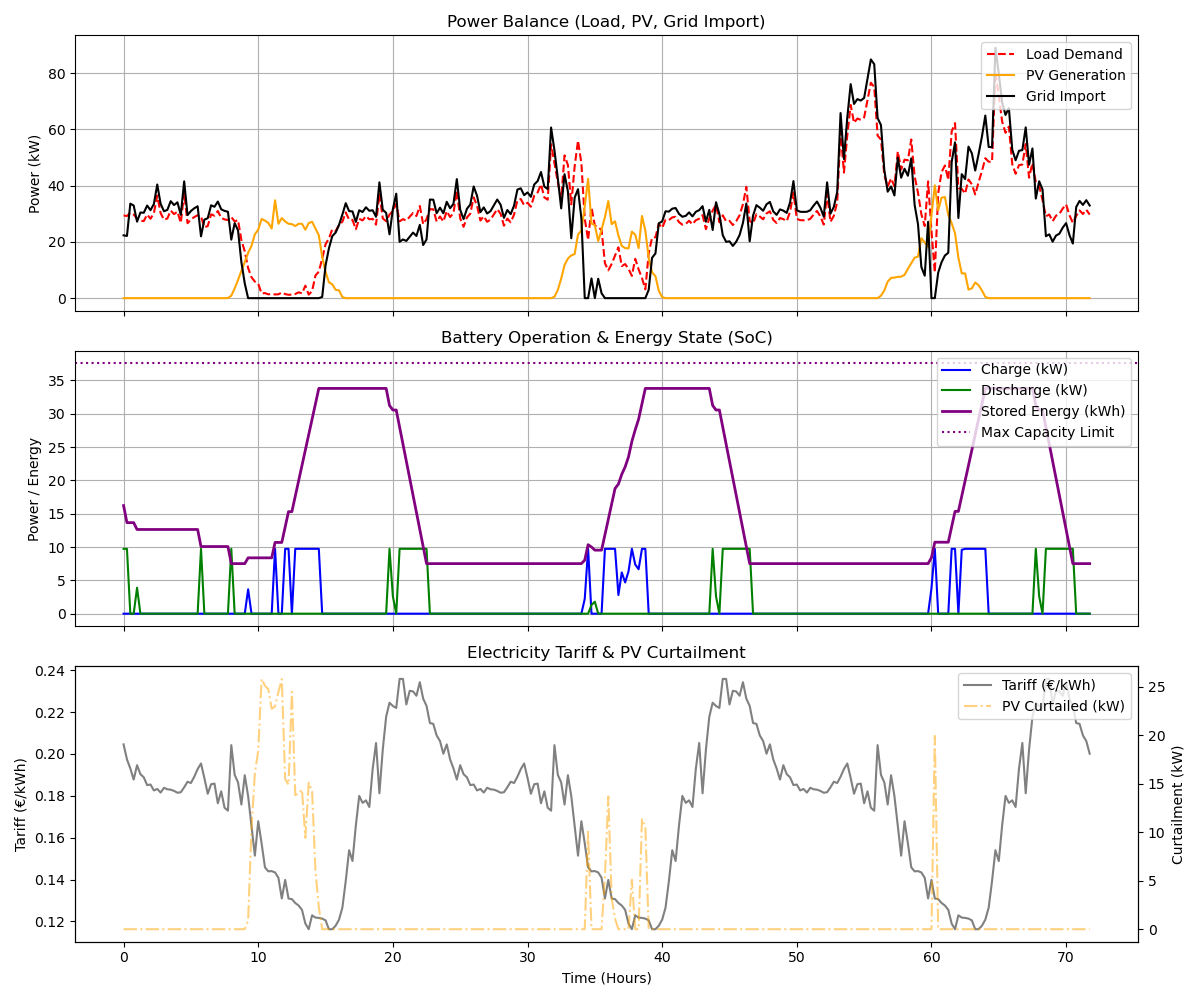
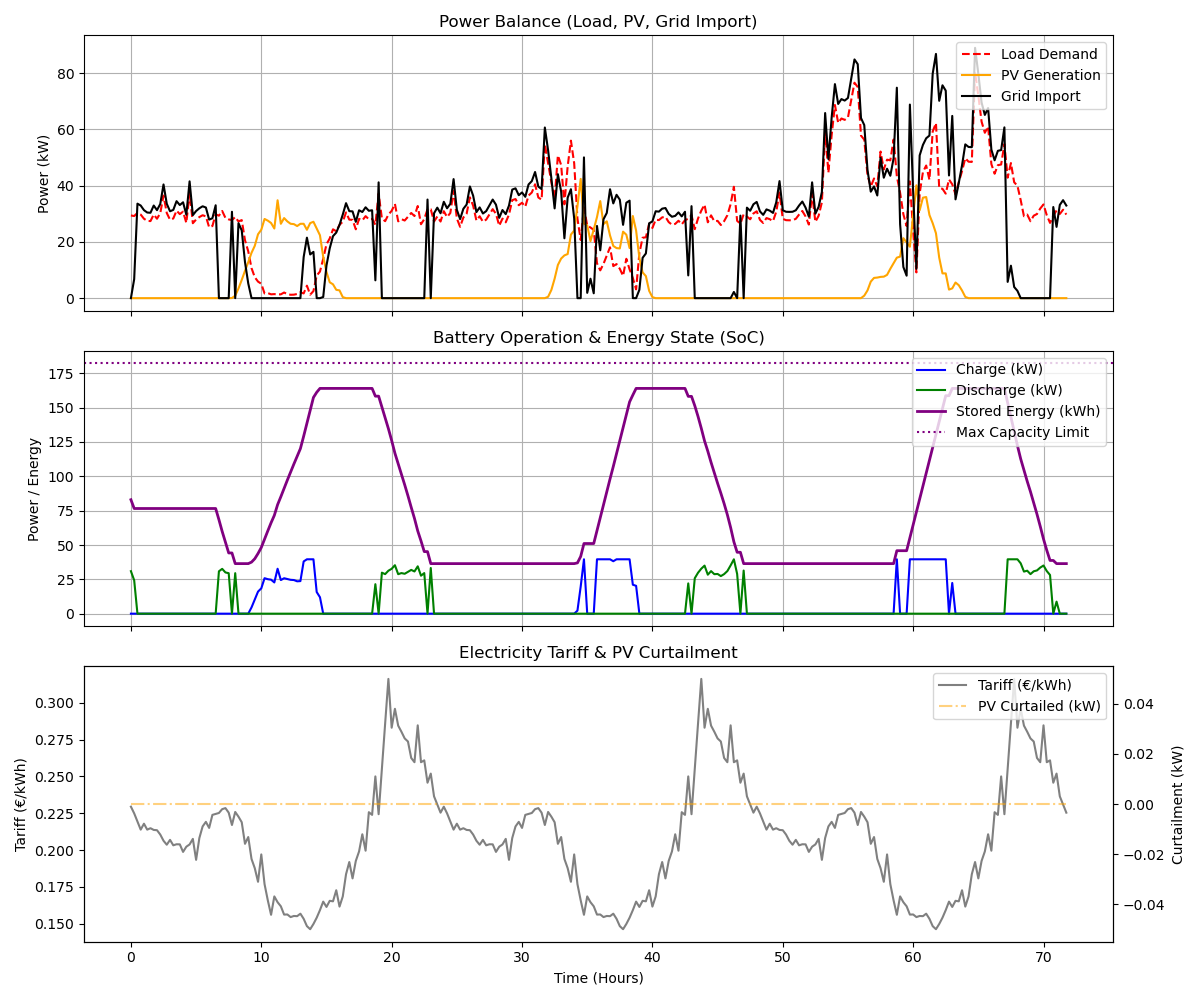
New worlkflow more efficient

diff --git a/BMS_brain/src/web_ui/index.html b/BMS_brain/src/web_ui/index.html
@@ -33,13 +33,6 @@
                 <p>The sequential flow of data from raw inputs to sizing optimization</p>
             </div>
             <div class="pipeline-steps">
-                <div class="step-node" id="node-ghi_getter">
-                    <div class="node-icon">☀️</div>
-                    <div class="node-label">GHI Getter</div>
-                    <div class="node-sub">Weather Data Fetch</div>
-                </div>
-                <div class="flow-line" id="line-ghi-cleaner"></div>
-                
                 <div class="step-node" id="node-pv_cleaner">
                     <div class="node-icon">🧹</div>
                     <div class="node-label">PV Cleaner</div>
@@ -52,14 +45,7 @@
                     <div class="node-label">Consumption Cleaner</div>
                     <div class="node-sub">Clean Load Profile</div>
                 </div>
-                <div class="flow-line" id="line-con-curtail"></div>
-                
-                <div class="step-node" id="node-curtailment">
-                    <div class="node-icon">✂️</div>
-                    <div class="node-label">Curtailment</div>
-                    <div class="node-sub">Solar PV Imputation</div>
-                </div>
-                <div class="flow-line" id="line-curtail-opt"></div>
+                <div class="flow-line" id="line-con-opt"></div>
                 
                 <div class="step-node" id="node-battery_optimizer">
                     <div class="node-icon">🔋</div>
@@ -82,33 +68,10 @@
             <section id="tab-individual" class="tab-panel active">
                 <div class="modules-grid">
                     
-                    <!-- CARD 1: GHI GETTER -->
-                    <div class="module-card" id="card-ghi_getter">
-                        <div class="card-header">
-                            <span class="card-num">01</span>
-                            <h3>GHI Getter</h3>
-                            <span class="status-badge idle">Idle</span>
-                        </div>
-                        <p class="card-desc">Downloads 2023 Global Horizontal Irradiance (GHI) weather data from the Open-Meteo Historical Archive API for the Orly airport location.</p>
-                        <div class="card-actions">
-                            <button class="btn-primary" onclick="runScript('ghi_getter')">Run GHI Getter</button>
-                        </div>
-                        <div class="progress-bar-container">
-                            <div class="progress-bar"></div>
-                        </div>
-                        <div class="console-log-header" onclick="toggleConsole('ghi_getter')">
-                            <span>Console Log Output</span>
-                            <span class="arrow">▼</span>
-                        </div>
-                        <div class="console-log" id="log-ghi_getter">
-                            <pre>Terminal output will appear here...</pre>
-                        </div>
-                    </div>
-
-                    <!-- CARD 2: PV CLEANER -->
+                    <!-- CARD 1: PV CLEANER -->
                     <div class="module-card" id="card-pv_cleaner">
                         <div class="card-header">
-                            <span class="card-num">02</span>
+                            <span class="card-num">01</span>
                             <h3>PV Cleaner</h3>
                             <span class="status-badge idle">Idle</span>
                         </div>
@@ -131,10 +94,10 @@
                         </div>
                     </div>
 
-                    <!-- CARD 3: CONSUMPTION CLEANER -->
+                    <!-- CARD 2: CONSUMPTION CLEANER -->
                     <div class="module-card" id="card-con_cleaner">
                         <div class="card-header">
-                            <span class="card-num">03</span>
+                            <span class="card-num">02</span>
                             <h3>Consumption Cleaner</h3>
                             <span class="status-badge idle">Idle</span>
                         </div>
@@ -157,36 +120,10 @@
                         </div>
                     </div>
 
-                    <!-- CARD 4: CURTAILMENT -->
-                    <div class="module-card" id="card-curtailment">
-                        <div class="card-header">
-                            <span class="card-num">04</span>
-                            <h3>Curtailment Analysis</h3>
-                            <span class="status-badge idle">Idle</span>
-                        </div>
-                        <p class="card-desc">Analyzes PV curtailment schedules, models historical curtailment periods, and creates train-test splits for validation models.</p>
-                        <div class="card-actions">
-                            <button class="btn-primary" onclick="runScript('curtailment')">Run Curtailment</button>
-                        </div>
-                        <div class="progress-bar-container">
-                            <div class="progress-bar"></div>
-                        </div>
-                        <div class="console-log-header" onclick="toggleConsole('curtailment')">
-                            <span>Console Log Output</span>
-                            <span class="arrow">▼</span>
-                        </div>
-                        <div class="console-log" id="log-curtailment">
-                            <pre>Terminal output will appear here...</pre>
-                        </div>
-                        <div class="visualization-area" id="viz-curtailment">
-                            <div class="viz-placeholder">Plot visualization will appear here upon successful run</div>
-                        </div>
-                    </div>
-
-                    <!-- CARD 5: BATTERY OPTIMIZER -->
+                    <!-- CARD 3: BATTERY OPTIMIZER -->
                     <div class="module-card" id="card-battery_optimizer">
                         <div class="card-header">
-                            <span class="card-num">05</span>
+                            <span class="card-num">03</span>
                             <h3>Battery Optimizer</h3>
                             <span class="status-badge idle">Idle</span>
                         </div>
@@ -271,7 +208,6 @@
                         <div class="gallery-tabs">
                             <button class="gallery-tab active" onclick="switchGallery('pv')">PV Clean</button>
                             <button class="gallery-tab" onclick="switchGallery('con')">Consumption Clean</button>
-                            <button class="gallery-tab" onclick="switchGallery('curtail')">Curtailment Analysis</button>
                             <button class="gallery-tab" onclick="switchGallery('battery')">Sizing Solution</button>
                         </div>
                         <div class="gallery-content">
@@ -281,10 +217,6 @@
                             </div>
                             <div class="gallery-img-container hidden" id="gallery-con">
                                 <img src="" alt="Consumption Cleaner Plot" class="gallery-img" onerror="imgError(this)">
-                                <div class="img-placeholder">Plot not generated yet. Run the pipeline to build this chart.</div>
-                            </div>
-                            <div class="gallery-img-container hidden" id="gallery-curtail">
-                                <img src="" alt="Curtailment Plot" class="gallery-img" onerror="imgError(this)">
                                 <div class="img-placeholder">Plot not generated yet. Run the pipeline to build this chart.</div>
                             </div>
                             <div class="gallery-img-container hidden" id="gallery-battery">

diff --git a/BMS_brain/src/web_ui/index.js b/BMS_brain/src/web_ui/index.js
@@ -83,7 +83,7 @@ async function updateSystemStatus() {
 
 // Update DOM cards based on script states
 function updateCards(state) {
-    const scripts = ["ghi_getter", "pv_cleaner", "con_cleaner", "curtailment", "battery_optimizer"];
+    const scripts = ["pv_cleaner", "con_cleaner", "battery_optimizer"];
     
     scripts.forEach(key => {
         const card = document.getElementById(`card-${key}`);
@@ -140,7 +140,7 @@ function updateCards(state) {
         startLogPolling("pipeline");
         
         // Calculate progress percentage based on current step
-        const stepsOrder = ["ghi_getter", "pv_cleaner", "con_cleaner", "curtailment", "battery_optimizer"];
+        const stepsOrder = ["pv_cleaner", "con_cleaner", "battery_optimizer"];
         const stepIdx = stepsOrder.indexOf(pState.current_step);
         const percent = stepIdx !== -1 ? Math.round((stepIdx / stepsOrder.length) * 100) : 10;
         pFill.style.width = `${percent}%`;
@@ -169,7 +169,7 @@ function updateCards(state) {
 
 // Update the glowing Pipeline Nodes at the top
 function updatePipelineNodes(state) {
-    const nodes = ["ghi_getter", "pv_cleaner", "con_cleaner", "curtailment", "battery_optimizer"];
+    const nodes = ["pv_cleaner", "con_cleaner", "battery_optimizer"];
     
     // Check if pipeline is running
     const pipelineRunning = state["pipeline"].status === "running";
@@ -185,7 +185,7 @@ function updatePipelineNodes(state) {
             if (pipelineCurrentStep === key) {
                 node.classList.add("active");
             } else {
-                const stepsOrder = ["ghi_getter", "pv_cleaner", "con_cleaner", "curtailment", "battery_optimizer"];
+                const stepsOrder = ["pv_cleaner", "con_cleaner", "battery_optimizer"];
                 if (stepsOrder.indexOf(key) < stepsOrder.indexOf(pipelineCurrentStep)) {
                     node.classList.add("success");
                 }
@@ -297,7 +297,6 @@ function getPlotFileName(scriptKey) {
     const mapping = {
         "pv_cleaner": "data_cleaner_results.png",
         "con_cleaner": "data_cleaner_con_results.png",
-        "curtailment": "curtailment_results_2023.png",
         "battery_optimizer": "optimization_results.png"
     };
     return mapping[scriptKey];
@@ -322,7 +321,6 @@ function displayAllGalleryPlots() {
     
     document.querySelector("#gallery-pv img").src = `${API_BASE}/api/plots/data_cleaner_results.png?t=${t}`;
     document.querySelector("#gallery-con img").src = `${API_BASE}/api/plots/data_cleaner_con_results.png?t=${t}`;
-    document.querySelector("#gallery-curtail img").src = `${API_BASE}/api/plots/curtailment_results_2023.png?t=${t}`;
     document.querySelector("#gallery-battery img").src = `${API_BASE}/api/plots/optimization_results.png?t=${t}`;
 }
 
@@ -384,10 +382,8 @@ function copyLogs(scriptKey) {
 
 function getNiceName(key) {
     const mapping = {
-        "ghi_getter": "GHI Getter",
         "pv_cleaner": "PV Cleaner",
         "con_cleaner": "Consumption Cleaner",
-        "curtailment": "Curtailment",
         "battery_optimizer": "Battery Optimizer"
     };
     return mapping[key] || key;

diff --git a/BMS_brain/src/curtailement.py b/BMS_brain/src/curtailement.py
@@ -8,7 +8,7 @@ import pandas as pd
 from sklearn.ensemble import RandomForestRegressor
 
 # Define the root path of the project
-root_proj = Path("/Users/alesk/Documents/Git-repo/Pre-PhD/BMS_brain")
+root_proj = Path(__file__).parent.parent.resolve()
 
 # Add the 'src' directory to the system path
 if str(root_proj/"src") not in sys.path:
@@ -82,36 +82,10 @@ dts['dow_cos'] = np.cos(2*np.pi*dts['dayofweek']/7)
 
 
 # ==============================================================================
-# --- 6. OVERCOME CURTAILMENT (Dynamic by Year) ---
+# --- 6. OVERCOME CURTAILMENT (Disabled/Removed) ---
 # ==============================================================================
-print(f"Reconstructing curtailed data for {year}...")
+print(f"Curtailment reconstruction is disabled for {year}.")
 dts['is_curtailed'] = False
-
-if year == 2022:
-    curtail_1 = (dts['Date'] >= '2022-04-01') & (dts['Date'] <= '2022-05-05')
-    curtail_2 = (dts['Date'] >= '2022-07-03') & (dts['Date'] <= '2022-09-07')
-    dts.loc[curtail_1 | curtail_2, 'is_curtailed'] = True
-elif year == 2023:
-    curtail_1 = (dts['Date'] >= '2023-06-22') & (dts['Date'] <= '2023-09-29')
-    dts.loc[curtail_1, 'is_curtailed'] = True
-
-# Define features used to train the Random Forest
-ml_features = ['GHI', 'temp']
-
-if dts['is_curtailed'].sum() > 0:
-    # Split into clean data (to train) and curtailed data (to fix)
-    clean_data = dts[~dts['is_curtailed']].dropna(subset=ml_features + ['PV'])
-    curtailed_data = dts[dts['is_curtailed']].copy()
-    
-    # Train model
-    model = RandomForestRegressor(n_estimators=100, random_state=42, n_jobs=-1)
-    model.fit(clean_data[ml_features], clean_data['PV'])
-    
-    # Predict and overwrite the bad PV values
-    dts.loc[dts['is_curtailed'], 'PV'] = model.predict(curtailed_data[ml_features])
-    print(f"Curtailment successfully repaired for {year}.")
-else:
-    print(f"No curtailment periods defined or found for {year}.")
 # ==============================================================================
 
 

diff --git a/BMS_brain/src/app_server.py b/BMS_brain/src/app_server.py
@@ -15,10 +15,8 @@ UI_DIR = SRC_DIR / "web_ui"
 # Global state to keep track of running scripts
 # Statuses: "idle", "running", "success", "error"
 execution_state = {
-    "ghi_getter": {"status": "idle", "logs": "", "pid": None},
     "pv_cleaner": {"status": "idle", "logs": "", "pid": None},
     "con_cleaner": {"status": "idle", "logs": "", "pid": None},
-    "curtailment": {"status": "idle", "logs": "", "pid": None},
     "battery_optimizer": {"status": "idle", "logs": "", "pid": None},
     "pipeline": {"status": "idle", "logs": "", "current_step": None, "pid": None}
 }
@@ -27,10 +25,8 @@ state_lock = threading.Lock()
 
 # Mapping script identifiers to actual files
 SCRIPT_FILES = {
-    "ghi_getter": SRC_DIR / "ghi_getter.py",
     "pv_cleaner": SRC_DIR / "data_cleaner.py",
     "con_cleaner": SRC_DIR / "data_cleaner_con.py",
-    "curtailment": SRC_DIR / "curtailement.py",
     "battery_optimizer": SRC_DIR / "battery_optimizer.py"
 }
 
@@ -95,7 +91,7 @@ def run_script_thread(script_key, on_complete=None):
 
 def run_pipeline_thread():
     """Runs the complete data flow pipeline sequentially."""
-    steps = ["ghi_getter", "pv_cleaner", "con_cleaner", "curtailment", "battery_optimizer"]
+    steps = ["pv_cleaner", "con_cleaner", "battery_optimizer"]
     
     with state_lock:
         execution_state["pipeline"]["status"] = "running"
@@ -212,7 +208,6 @@ class BMSDashboardHTTPHandler(BaseHTTPRequestHandler):
             plot_files = {
                 "data_cleaner_results.png": SRC_DIR / "data_cleaner_results.png",
                 "data_cleaner_con_results.png": SRC_DIR / "data_cleaner_con_results.png",
-                "curtailment_results_2023.png": SRC_DIR / "curtailment_results_2023.png",
                 "optimization_results.png": SRC_DIR / "optimization_results.png"
             }
             
@@ -237,7 +232,14 @@ class BMSDashboardHTTPHandler(BaseHTTPRequestHandler):
                 ui_file = UI_DIR / path.lstrip("/")
 
             # Verify it's within UI_DIR to prevent directory traversal
-            if ui_file.exists() and ui_file.is_relative_to(UI_DIR):
+            is_relative = False
+            try:
+                ui_file.resolve().relative_to(UI_DIR.resolve())
+                is_relative = True
+            except ValueError:
+                pass
+
+            if ui_file.exists() and is_relative:
                 content_types = {
                     ".html": "text/html",
                     ".css": "text/css",

diff --git a/BMS_brain/src/data_cleaner.py b/BMS_brain/src/data_cleaner.py
@@ -8,7 +8,7 @@ import pandas as pd
 from sklearn.ensemble import RandomForestRegressor
 
 # Define the root path of the project
-root_proj = Path("/Users/alesk/Documents/Git-repo/Pre-PhD/BMS_brain")
+root_proj = Path(__file__).parent.parent.resolve()
 
 # Add the 'src' directory to the system path
 if str(root_proj/"src") not in sys.path: